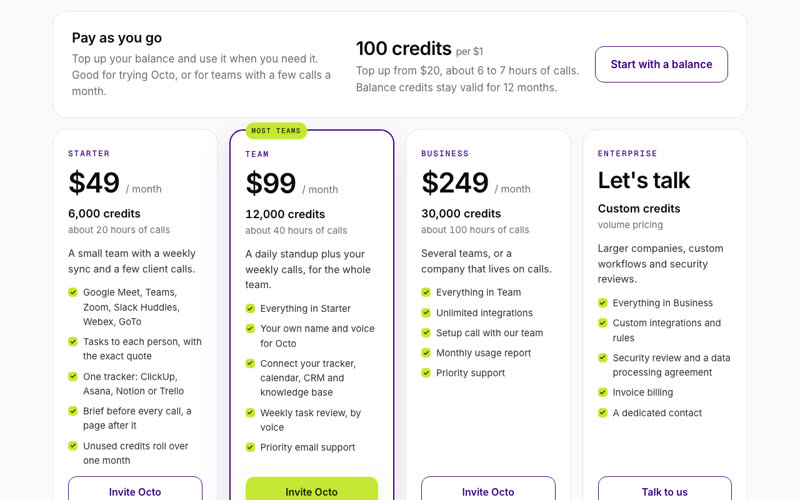
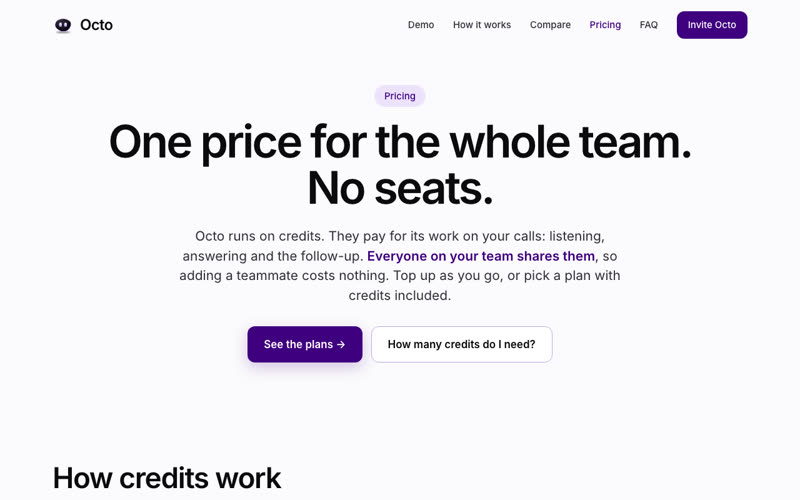
Landing: Kajo's light redesign live; index.html copy of code.html so the homepage serves
Pitch Website slide uses fresh screenshots of the new pages.

diff --git a/outputs/website/landing/index.html b/outputs/website/landing/index.html
@@ -1,0 +1,203 @@
+<!doctype html>
+<html lang="en">
+<head>
+<meta charset="utf-8">
+<meta name="viewport" content="width=device-width, initial-scale=1">
+<link rel="preconnect" href="https://cdn.grona.ai">
+<script src="https://cdn.grona.ai/workspaces/6af085eeaff6c24aa3090993/main.js" async></script>
+<title>Octo — an AI teammate on every call</title>
+<meta name="description" content="Note-takers record the meeting. Octo takes part in it: it answers on the call, shows it on screen, and turns what you agreed into tasks in your tracker.">
+<meta property="og:title" content="Octo — an AI teammate on every call">
+<meta property="og:description" content="Note-takers record the meeting. Octo takes part in it.">
+<meta property="og:image" content="https://octo-landing-47q.pages.dev/media/octo-call.jpg">
+<meta name="theme-color" content="#FBFAFC">
+<link rel="icon" href="media/octo-320.png">
+<link rel="stylesheet" href="site.css">
+<script type="application/ld+json">{"@context": "https://schema.org", "@type": "SoftwareApplication", "name": "Octo", "applicationCategory": "BusinessApplication", "operatingSystem": "Web", "description": "An AI teammate that joins your team's calls on Google Meet, Microsoft Teams, Zoom, Slack Huddles, Webex and GoTo, answers when called by name, and after the call sends each person their own tasks with the exact quote and keeps ClickUp, Asana, Notion or Trello up to date.", "url": "https://octo-landing-47q.pages.dev/", "publisher": {"@type": "Organization", "name": "Octocrew", "url": "https://octocrew.ai"}}</script>
+<script type="application/ld+json">{"@context": "https://schema.org", "@type": "FAQPage", "mainEntity": [{"@type": "Question", "name": "Who is it for?", "acceptedAnswer": {"@type": "Answer", "text": "Small teams of up to 50 people without a project manager, from remote agencies to startups. On your calls, Octo works like a junior project manager that tracks who’s doing what."}}, {"@type": "Question", "name": "How is this different from a note-taker?", "acceptedAnswer": {"@type": "Answer", "text": "A note-taker records and summarises. Octo takes part: it answers questions on the call, shows things on screen, and after the call turns what you agreed into tasks in your tracker and keeps them up to date."}}, {"@type": "Question", "name": "Does it talk all the time?", "acceptedAnswer": {"@type": "Answer", "text": "No. It joins visibly as a participant and speaks only when you call it by name."}}, {"@type": "Question", "name": "Which platforms does it work on?", "acceptedAnswer": {"@type": "Answer", "text": "Google Meet, Microsoft Teams, Zoom, Slack Huddles, Webex and GoTo."}}, {"@type": "Question", "name": "Which trackers does it work with?", "acceptedAnswer": {"@type": "Answer", "text": "ClickUp, Asana, Notion, Trello and others. Tell us yours when you invite Octo."}}, {"@type": "Question", "name": "How much does it cost?", "acceptedAnswer": {"@type": "Answer", "text": "One price for the whole team, not per seat. Plans start at $49 a month with credits included, or pay as you go from $20. See pricing."}}]}</script>
+</head>
+<body>
+
+<nav>
+  <div class="wrap">
+    <a class="logo" href="#top"><img src="media/octo-320.png" alt="">Octo</a>
+    <div class="links">
+      <a href="#demo">Demo</a>
+      <a href="#how">How it works</a>
+      <a href="compare.html">Compare</a>
+      <a href="pricing.html">Pricing</a>
+      <a href="#faq">FAQ</a>
+      <a class="btn primary" href="#access">Invite Octo</a>
+    </div>
+  </div>
+</nav>
+
+<header class="hero" id="top">
+  <div class="wrap">
+    <p class="eb">For small teams without a project manager</p>
+    <h1>Every call ends with <span>“so who’s doing what?”</span></h1>
+    <p class="sub">Note-takers record the meeting. <b>Octo takes part in it.</b> It answers when you call it by name, then sends each person their own tasks and keeps ClickUp or Asana up to date.</p>
+    <div class="cta-row">
+      <a class="btn primary" href="#access">Invite Octo to your next call →</a>
+      <a class="btn ghost play" href="#demo">Watch the demo (0:36)</a>
+    </div>
+    <div class="call" role="img" aria-label="Illustration: Octo on a team call with Anna and Mark, listing a task for Anna by Friday and a sync on Thursday at 10:00, synced to the tracker">
+      <div class="call-head"><b>Weekly team sync</b><span>Illustration</span></div>
+      <div class="call-body">
+        <div class="tiles">
+          <div class="tile big"><img src="media/octo-320.png" alt="" width="320" height="320"><span>Octo</span></div>
+          <div class="tile"><i>A</i><span>Anna</span></div>
+          <div class="tile"><i>M</i><span>Mark</span></div>
+          <div class="ctrls"><i></i><i></i><i></i><i></i><i></i></div>
+        </div>
+        <div class="captured">
+          <h3>From this call</h3>
+          <div class="task"><b>Send launch assets</b><small>Anna · Friday</small></div>
+          <div class="task"><b>Sync on the launch</b><small>Calendar · Thursday 10:00</small></div>
+          <p class="synced">Synced to your tracker</p>
+        </div>
+      </div>
+    </div>
+    <p class="platforms">Works in</p>
+    <ul class="logos">
+      <li><img src="media/logos/google-meet.svg" alt="" width="24" height="24">Google Meet</li>
+      <li><img src="media/logos/microsoft-teams.svg" alt="" width="24" height="24">Teams</li>
+      <li><img src="media/logos/zoom.svg" alt="" width="24" height="24">Zoom</li>
+      <li><img src="media/logos/slack.svg" alt="" width="24" height="24">Slack Huddles</li>
+      <li><img src="media/logos/webex.svg" alt="" width="24" height="24">Webex</li>
+      <li><img class="wordmark" src="media/logos/goto.svg" alt="GoTo" width="47" height="24"></li>
+    </ul>
+  </div>
+</header>
+
+<section id="problem">
+  <div class="wrap">
+    <h2>The call ends. The work slips.</h2>
+    <div class="problem-grid">
+      <div class="pcard"><h3>Someone has to take notes</h3><p>And they still miss things, while not really taking part.</p></div>
+      <div class="pcard"><h3>Agreements slip between calls</h3><p>A week later someone asks “did that get done?” and nobody knows.</p></div>
+      <div class="pcard"><h3>The tracker goes stale the next day</h3><p>Nobody updates it when plans change out loud.</p></div>
+    </div>
+    <div class="banner">No project manager? <b>Then every follow-up lands on the founder.</b></div>
+  </div>
+</section>
+
+<section class="demo" id="demo">
+  <div class="wrap">
+    <h2>Talk to it like a colleague</h2>
+    <p class="lede">Octo joins as a regular participant. Call it by name and it answers by voice and puts the answer on its own video tile.</p>
+    <div class="demo-grid">
+      <video class="wide" controls playsinline preload="metadata" poster="media/octo-call.jpg" src="media/octo-demo.mp4"></video>
+      <video class="tall" controls playsinline preload="metadata" poster="media/octo-demo-vertical-poster.jpg" src="media/octo-demo-vertical.mp4" width="1080" height="1920"></video>
+      <ul class="say">
+        <li><div class="q">“Octo, where are we with the launch?”</div><div class="a">Shows the task status on its tile: two done, one stuck.</div></li>
+        <li><div class="q">“Let’s sync on Thursday at ten.”</div><div class="a">Books the event in the calendar.</div></li>
+        <li><div class="q">After the call</div><div class="a">Everyone gets their own tasks by DM, and the tracker is already updated.</div></li>
+      </ul>
+    </div>
+  </div>
+</section>
+
+<section id="how">
+  <div class="wrap">
+    <h2>A junior project manager on every call</h2>
+    <div class="how-grid">
+      <div class="how"><svg viewBox="0 0 24 24" fill="none" stroke="currentColor" stroke-width="1.6" stroke-linecap="round" stroke-linejoin="round" aria-hidden="true"><rect x="3" y="4.5" width="18" height="16" rx="2.5"/><path d="M3 9.5h18M8 2.5v4M16 2.5v4"/></svg><span class="tag">Before</span><h3>A brief, ready when you join</h3>
+        <ul><li>Who’s attending</li><li>What you discussed last time</li><li>What’s still open</li></ul></div>
+      <div class="how"><svg viewBox="0 0 24 24" fill="none" stroke="currentColor" stroke-width="1.6" stroke-linecap="round" stroke-linejoin="round" aria-hidden="true"><path d="M13 2 4 14h7l-1 8 9-12h-7z"/></svg><span class="tag">During</span><h3>Takes part in the call</h3>
+        <ul><li>Speaks when called on, by name</li><li>Answers from your knowledge base and CRM, searches the web</li><li>Shows answers on its own tile</li><li>Books events in the calendar</li></ul></div>
+      <div class="how"><svg viewBox="0 0 24 24" fill="none" stroke="currentColor" stroke-width="1.6" stroke-linecap="round" stroke-linejoin="round" aria-hidden="true"><rect x="3" y="3" width="18" height="18" rx="3"/><path d="m8 12 3 3 5-6"/></svg><span class="tag">After</span><h3>Turns talk into work</h3>
+        <ul><li>Everyone gets their tasks by DM, with the exact quote</li><li>A page for every meeting</li><li>A weekly task review, by voice</li></ul></div>
+    </div>
+  </div>
+</section>
+
+<section class="tour">
+  <div class="wrap">
+    <h2>The whole flow in 71 seconds</h2>
+    <p class="lede">Before, during and after the call, with the task message and the tracker.</p>
+    <video controls playsinline preload="none" poster="media/octo-demo-full-poster.jpg" src="media/octo-demo-full.mp4" width="1920" height="1080" aria-label="Octo product walkthrough, 71 seconds"></video>
+  </div>
+</section>
+
+<section style="padding-top:0">
+  <div class="wrap split">
+    <div class="shot"><img src="media/octo-captured.jpg" alt="Octo's tile after a call: a task for Anna by Friday and a calendar event for Thursday at 10:00" width="1440" height="810" loading="lazy"></div>
+    <div>
+      <h2>Your tracker stays current until the work is done</h2>
+      <ul class="checks">
+        <li>Tasks go straight into ClickUp, Asana, Notion, Trello and other trackers you already use.</li>
+        <li>Say on a later call that something is done or has changed, and Octo updates it.</li>
+      </ul>
+    </div>
+  </div>
+</section>
+
+<section id="compare" style="padding-top:0">
+  <div class="wrap">
+    <p class="eb">Octo vs note-takers</p>
+    <h2>Note-takers give you notes. Octo gives everyone their tasks.</h2>
+    <p class="lede">Granola, Fireflies and Otter are great at writing the meeting down. Octo is built for what happens next.</p>
+    <div class="cmp-wrap">
+      <table class="cmp">
+        <thead><tr><th></th><th>Note-takers</th><th class="octo">Octo</th></tr></thead>
+        <tbody>
+          <tr><th>On the call</th><td>Record. Some answer on a wake word.</td><td class="octo">Takes part: answers by name, shows lists and tables on its own video tile.</td></tr>
+          <tr><th>After the call</th><td>A summary and action items.</td><td class="octo">Each person gets their own tasks, with a deadline and the exact quote.</td></tr>
+          <tr><th>Your tracker</th><td>Export or integration, if you set it up.</td><td class="octo">Tasks land in ClickUp, Asana, Notion or Trello.</td></tr>
+          <tr><th>Next week’s call</th><td>Starts from scratch.</td><td class="octo">Knows what’s still open, and closes tasks when someone says “done”.</td></tr>
+        </tbody>
+      </table>
+    </div>
+    <p class="cmp-note">Want notes with no bot in the room? Granola does that well. Want your team’s follow-ups done? That’s Octo.</p>
+    <p class="cmp-note"><a href="compare.html">See the full comparison with Granola, Fireflies, Otter and Fathom →</a></p>
+  </div>
+</section>
+
+<section style="padding-top:0">
+  <div class="wrap">
+    <div class="own">
+      <div>
+        <h2>Call it Octo, or give it your own name</h2>
+        <p>Pick its voice and connect it to your knowledge base, CRM, tracker and calendar. One agent on every platform your team uses.</p>
+      </div>
+      <img src="media/octo.png" alt="The Octo character" width="220" height="220" loading="lazy">
+    </div>
+  </div>
+</section>
+
+<section id="faq">
+  <div class="wrap faq">
+    <h2>Questions</h2>
+    <details><summary>Who is it for?</summary><p>Small teams of up to 50 people without a project manager, from remote agencies to startups. On your calls, Octo works like a junior project manager that tracks who’s doing what.</p></details>
+    <details><summary>How is this different from a note-taker?</summary><p>A note-taker records and summarises. Octo takes part: it answers questions on the call, shows things on screen, and after the call turns what you agreed into tasks in your tracker and keeps them up to date.</p></details>
+    <details><summary>Does it talk all the time?</summary><p>No. It joins visibly as a participant and speaks only when you call it by name.</p></details>
+    <details><summary>Which platforms does it work on?</summary><p>Google Meet, Microsoft Teams, Zoom, Slack Huddles, Webex and GoTo.</p></details>
+    <details><summary>Which trackers does it work with?</summary><p>ClickUp, Asana, Notion, Trello and others. Tell us yours when you invite Octo.</p></details>
+    <details><summary>How much does it cost?</summary><p>One price for the whole team, not per seat. Plans start at $49 a month with credits included, or pay as you go from $20. <a href="pricing.html">See pricing</a>.</p></details>
+  </div>
+</section>
+
+<section class="final" id="access">
+  <div class="wrap">
+    <img class="mascot" src="media/octo.png" alt="" width="800" height="800" loading="lazy">
+    <p class="eb">Early access</p>
+    <h2>Let your next call end with a plan, not a question</h2>
+    <p>Tell us about your team, the tools you use and when your next call is. We’ll get Octo onto it.</p>
+    <div class="cta-row">
+      <a class="btn primary" href="mailto:hello@octocrew.ai?subject=Invite%20Octo%20to%20our%20next%20call">Invite Octo to your next call →</a>
+      <a class="btn ghost" href="https://octocrew.ai">octocrew.ai</a>
+    </div>
+  </div>
+</section>
+
+<footer>
+  <div class="wrap">
+    <span>© 2026 Octocrew</span>
+    <span>The people and the project in the demo are made up.</span>
+    <a href="mailto:hello@octocrew.ai">hello@octocrew.ai</a>
+  </div>
+</footer>
+
+</body>
+</html>
